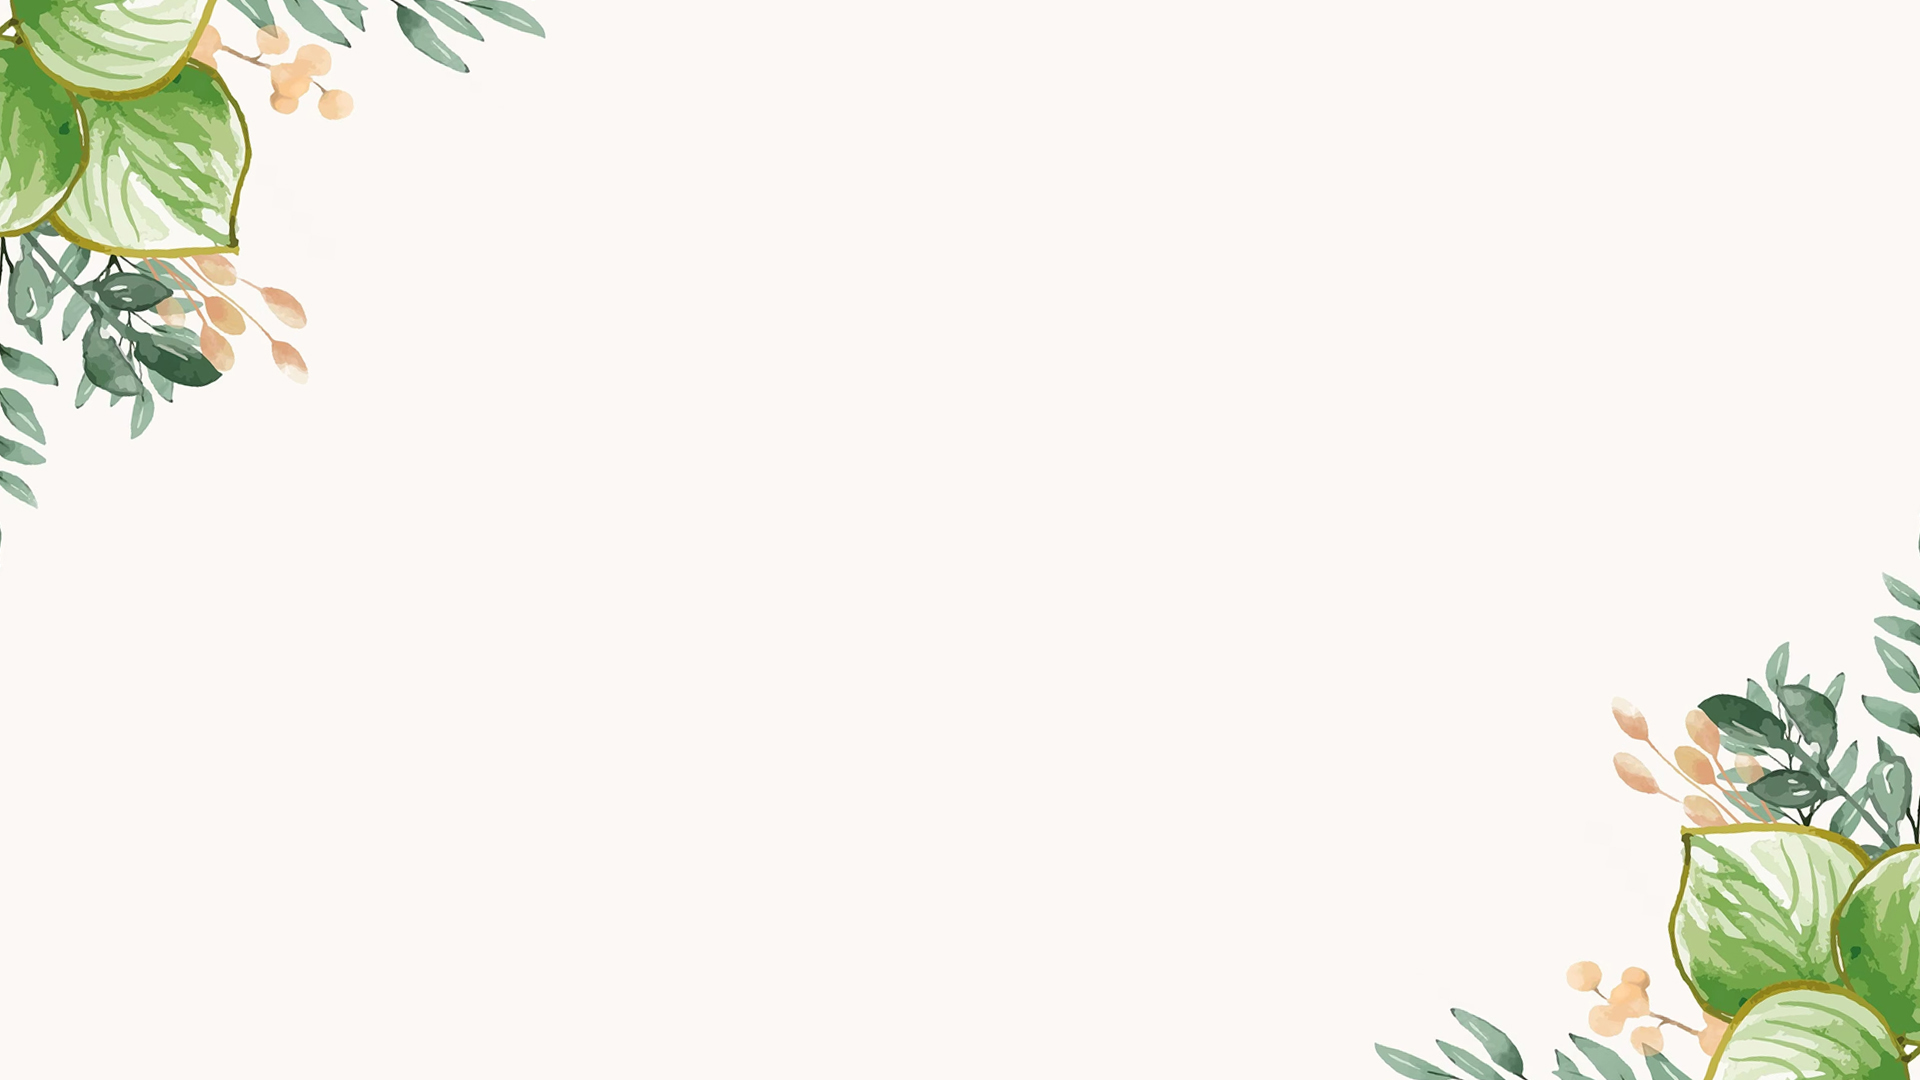
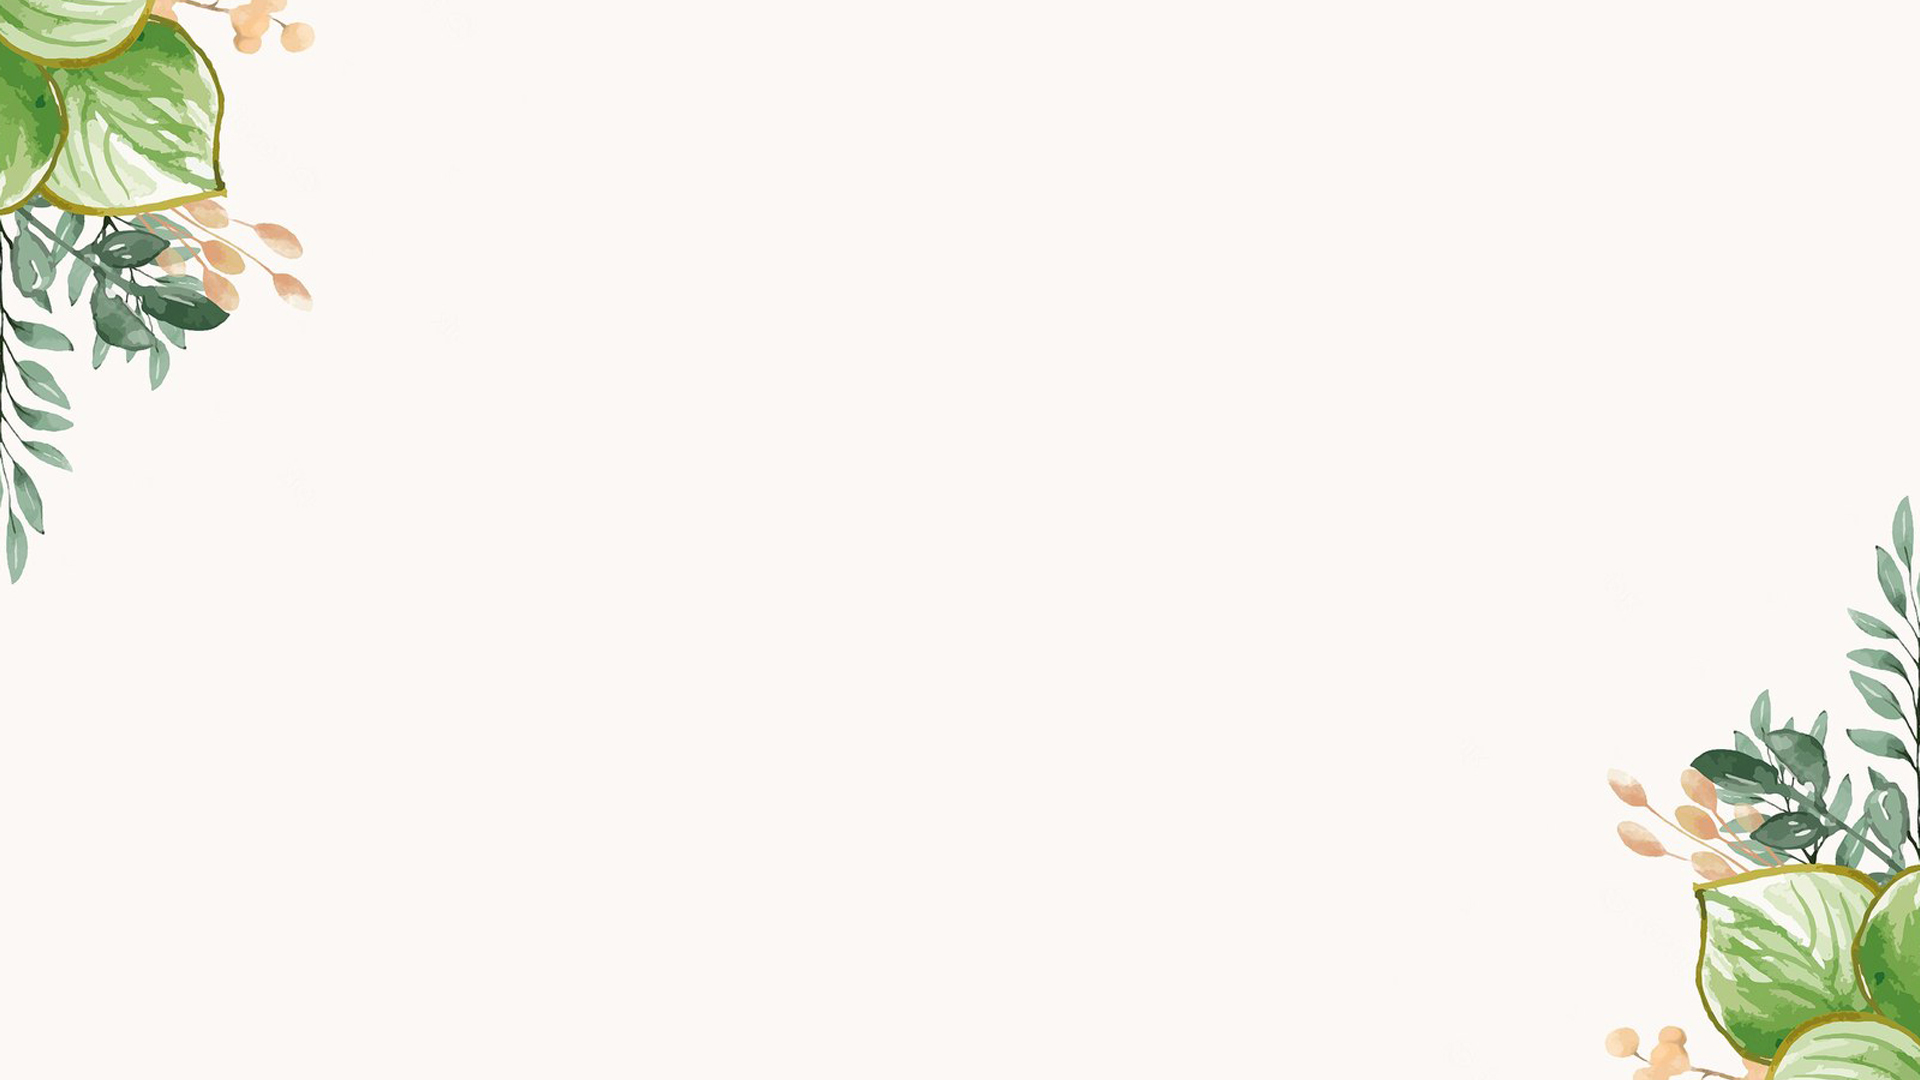
Update background and text

Changed region(s): [[0.7188, 0.4583, 1.0, 1.0], [0.0, 0.0, 0.2812, 0.55]]

diff --git a/index.html b/index.html
@@ -61,7 +61,7 @@
 		<p class="primary-text pad-bot">SHADY & CHIARA</p>
     <p class="tertiary-text">Siamo felici di festeggiare con voi il nostro matrimonio</p>
     <p class="secondary-text">Domenica 03 Settembre 2023</p>
-    <p class="tertiary-text">alle ore 17.30 presso</p>
+    <p class="tertiary-text">alle ore 16.30 presso</p>
     <p class="secondary-text">Villa Selavatico</p>
     <p class="tertiary-text pad-bot">Viale Sant'Elena, 36 - 35041 Battaglia Terme PD</p>
     <hr width="5%" style="height:0.1%; background-color:black;">
@@ -85,7 +85,7 @@
   <div class="background" id="soggiorno">
 
     <p class="primary-text pad-bot">SOGGIORNO</p>
-    <p class="tertiary-text">Per il soggiorno gli ospiti possono alloggiare presso</p>
+    <p class="tertiary-text">Per chi viene da lontano</p>
     <p class="secondary-text">Hotel Giotto</p>
     <p class="tertiary-text">Indirizzo: Piazzale Pontecorvo, 33 - 35121 Padova PD</p>
     <p class="tertiary-text pad-bot">Sito Web: <a class="hyperlink" href="https://www.hotelgiotto.com" target="_blank">https://www.hotelgiotto.com</a></p>
@@ -97,9 +97,10 @@
   <div class="background-inv" id="lista-nozze">
 
     <p class="primary-text pad-bot">LISTA NOZZE</p>
-    <p class="tertiary-text">Se volete partecipare al nostro regalo di nozze</p>
+    <p class="secondary-text">Coming Soon</p>
+    <!-- <p class="tertiary-text">Se volete partecipare al nostro regalo di nozze</p>
     <p class="tertiary-text pad-bot">IBAN: 123456789</p>
-    <img id="img-lista-nozze" src="images/lista_nozze.jpg">
+    <img id="img-lista-nozze" src="images/lista_nozze.jpg"> -->
 
 	</div>
 
@@ -107,8 +108,9 @@
   <div class="background" id="tableau">
 
     <p class="primary-text pad-bot">TABLEAU</p>
-    <p class="tertiary-text pad-bot">Il tableau de marriage è il seguente</p>
-    <img id="img-tableau" src="images/tableau.jpg">
+    <p class="secondary-text">Coming Soon</p>
+    <!-- <p class="tertiary-text pad-bot">Il tableau de marriage è il seguente</p>
+    <img id="img-tableau" src="images/tableau.jpg"> -->
 
 	</div>
 

diff --git a/style.css b/style.css
@@ -84,10 +84,10 @@ a:hover {
 
 @media only screen and (max-width: 767px) {
 	.background {
-		background-image: url("images/mobile.jpg");
+		background-image: url("images/mobile_2.jpg");
 	}
 	.background-inv {
-		background-image: url("images/mobile-inv.jpg");
+		background-image: url("images/mobile-inv_2.jpg");
 	}
 
 	.primary-text {
@@ -108,8 +108,8 @@ a:hover {
 	}
 
 	iframe {
-		width: 40%;
-		height: 20vh;
+		width: 60%;
+		height: 15vh;
 	}
 
 	#img-lista-nozze {
@@ -125,10 +125,10 @@ a:hover {
 
 @media only screen and (min-width: 768px) and (max-width: 1023px) {
 	.background {
-		background-image: url("images/tablet.jpg");
+		background-image: url("images/tablet_2.jpg");
 	}
 	.background-inv {
-		background-image: url("images/tablet-inv.jpg");
+		background-image: url("images/tablet-inv_2.jpg");
 	}
 
 	.primary-text {
@@ -150,7 +150,7 @@ a:hover {
 
 	iframe {
 		width: 50%;
-		height: 25vh;
+		height: 15vh;
 	}
 
 	#img-lista-nozze {
